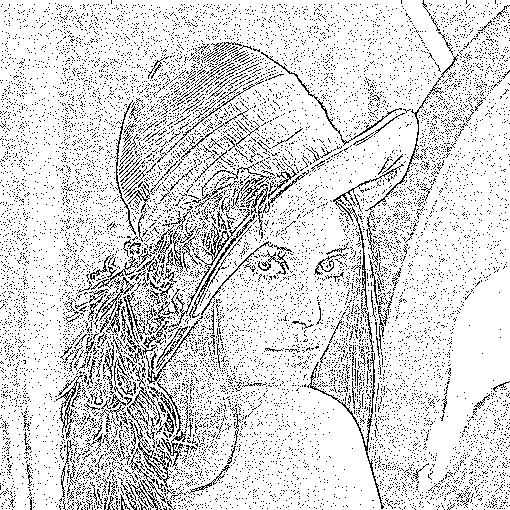
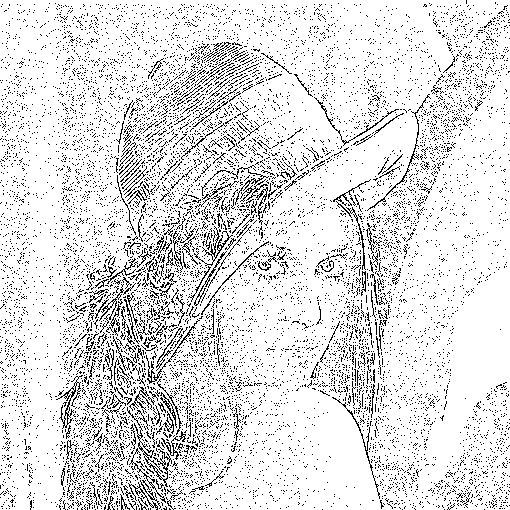
update hw10

Changed region(s): [[0.5294, 0.3529, 0.5588, 0.3824], [0.1176, 0.6765, 0.1471, 0.7059]]

diff --git a/hw10/hw10.m b/hw10/hw10.m
@@ -10,11 +10,16 @@ laplk=[0 1 0;
 
 %% task1
 laplacian=zeros(h-2,w-2);
+tmp=zeros(h-2,w-2);
 for i =1 :w-2
     for j = 1 :h-2
-        val=convolution(img(i:i+2,j:j+2),laplk);
-        if val>=15 
-            laplacian(i,j)=0;
+        tmp(i,j)=convolution(img(i:i+2,j:j+2),laplk);
+    end    
+end
+for i =1 :w-2
+    for j = 1 :h-2
+        if( tmp(i,j)>=15 && zerocross(tmp,i,j,1,15) == 1)
+           laplacian(i,j)=0;
         else
             laplacian(i,j)=255;
         end
@@ -28,11 +33,16 @@ mvlaplk=[2 -1 2;
         2 -1 2
 ];
 mvlaplacian=zeros(h-2,w-2);
+tmp=zeros(h-2,w-2);
 for i =1 :w-2
     for j = 1 :h-2
-        val=convolution(img(i:i+2,j:j+2),mvlaplk)/3;
-        if val>=20 
-            mvlaplacian(i,j)=0;
+        tmp(i,j)=convolution(img(i:i+2,j:j+2),mvlaplk)/3;
+    end    
+end
+for i =1 :w-2
+    for j = 1 :h-2
+        if( tmp(i,j)>=20 && zerocross(tmp,i,j,1,20) == 1)
+           mvlaplacian(i,j)=0;
         else
             mvlaplacian(i,j)=255;
         end
@@ -54,17 +64,22 @@ laogker=[0 0 0 -1 -1 -2 -1 -1 0 0 0 ;
          0, 0, 0, -1, -1, -2, -1, -1, 0, 0, 0
         ];
 laplaofgaus=zeros(h-10,w-10);
+tmp=zeros(h-10,w-10);
 for i =1 :w-10
     for j = 1 :h-10
-        val=convolution(img(i:i+10,j:j+10),laogker);
-        if val>=3500
-            mvlaplacian(i,j)=0;
+        tmp(i,j)=convolution(img(i:i+10,j:j+10),laogker);
+    end    
+end
+for i =1 :w-10
+    for j = 1 :h-10
+        if( tmp(i,j)>=3000 && zerocross(tmp,i,j,1,3000) == 1)
+           laplaofgaus(i,j)=0;
         else
-            mvlaplacian(i,j)=255;
+            laplaofgaus(i,j)=255;
         end
     end    
 end
-imwrite(uint8(mvlaplacian),'laplaceofGaus.png');
+imwrite(uint8(laplaofgaus),'laplaceofGaus.png');
 
 %% task4
 h1 = fspecial('gaussian', [11 11], 3);
@@ -87,7 +102,7 @@ for i =1 :w-10
 end
 dofgaus=dofgaus-dofgaus2;
 imwrite(dofgausimg,'dofGaus.png');
-
+sum(sum(h2))
 %% output
 fileID = fopen('result.txt','w+');
 fprintf(fileID,'Laplacian :\n threshold=%d\n',15);
@@ -105,7 +120,7 @@ function str=m2str(mat)
    [h w]=size(mat);
    for i=1:h
        for j=1:w
-           str=sprintf('%s%3d ',str,mat(i,j));
+           str=sprintf('%s%f ',str,mat(i,j));
        end
        str=sprintf('%s\n',str);
    end
@@ -118,6 +133,26 @@ function val=convolution(imgmat,kernel)
     for i =1:kh
         for j =1 :kw
            val=val+double(imgmat(i,j))*kernel(kh-i+1,kw-j+1);
+        end
+    end
+end
+%% type 0 :find negative, 1:find positive
+function cross=zerocross(img,i,j,type,t)
+    [h,w]=size(img);
+    dx=[-1 0 1 -1  1 -1 0 1];
+    dy=[-1 -1 -1 0 0 1 1 1];
+    cross=0;
+    for k =1 :8
+        if( i+dy(k)>0 && i+dy(k)<=w && j+dx(k)>0 && j+dx(k)<=h )
+           if type==0
+               if img(i+dy(k),j+dx(k)) >=t
+                   cross=1;
+               end
+           else
+               if img(i+dy(k),j+dx(k)) <=-t
+                   cross=1;
+               end
+           end
         end
     end
 end
